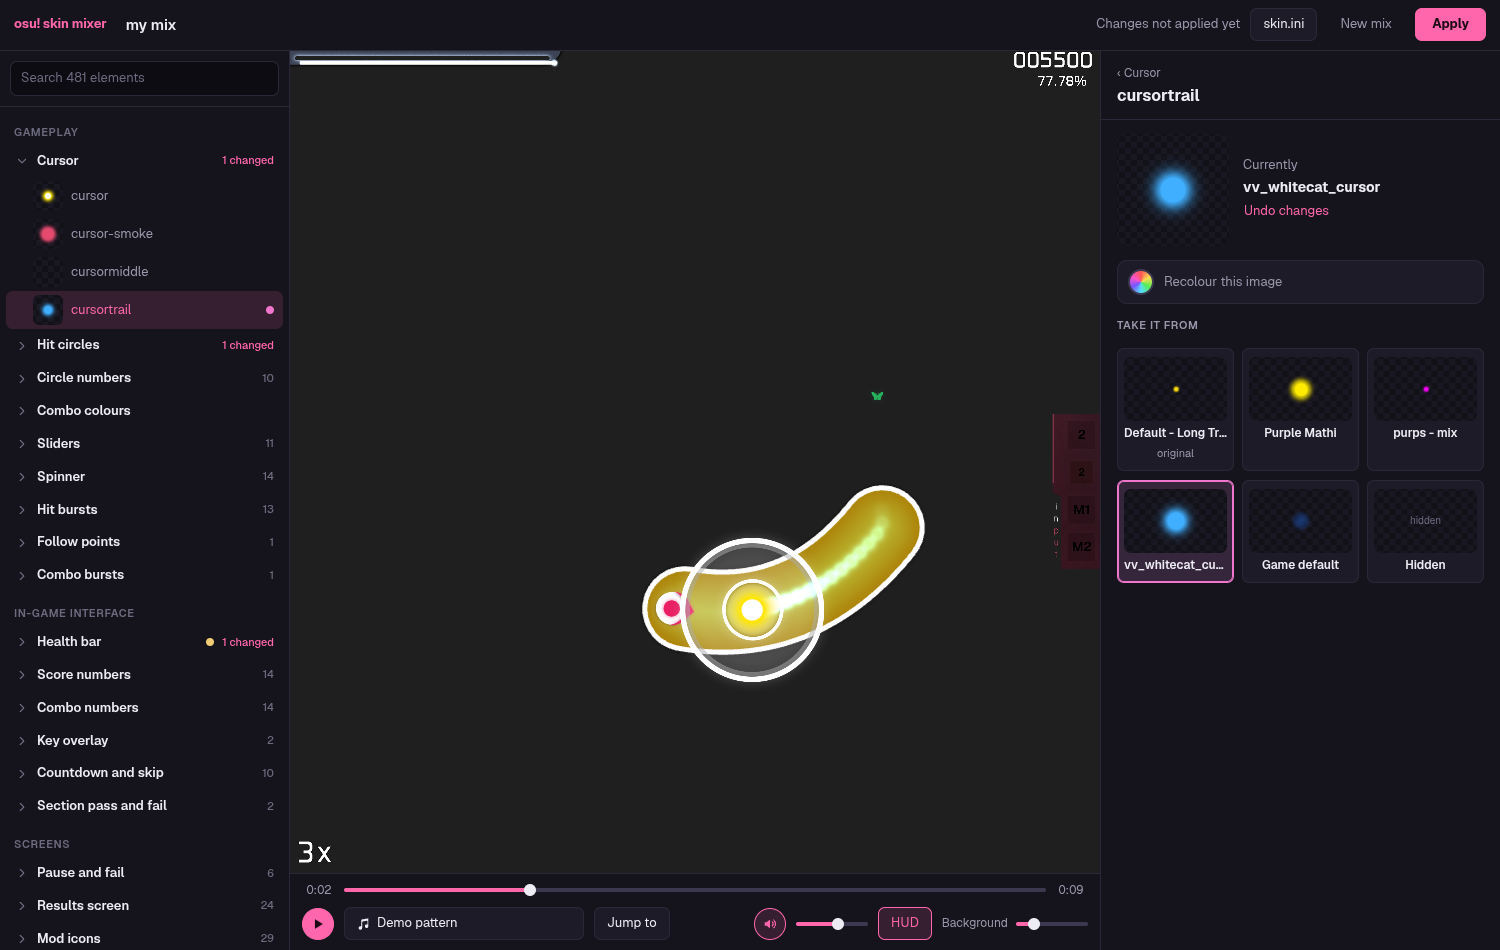
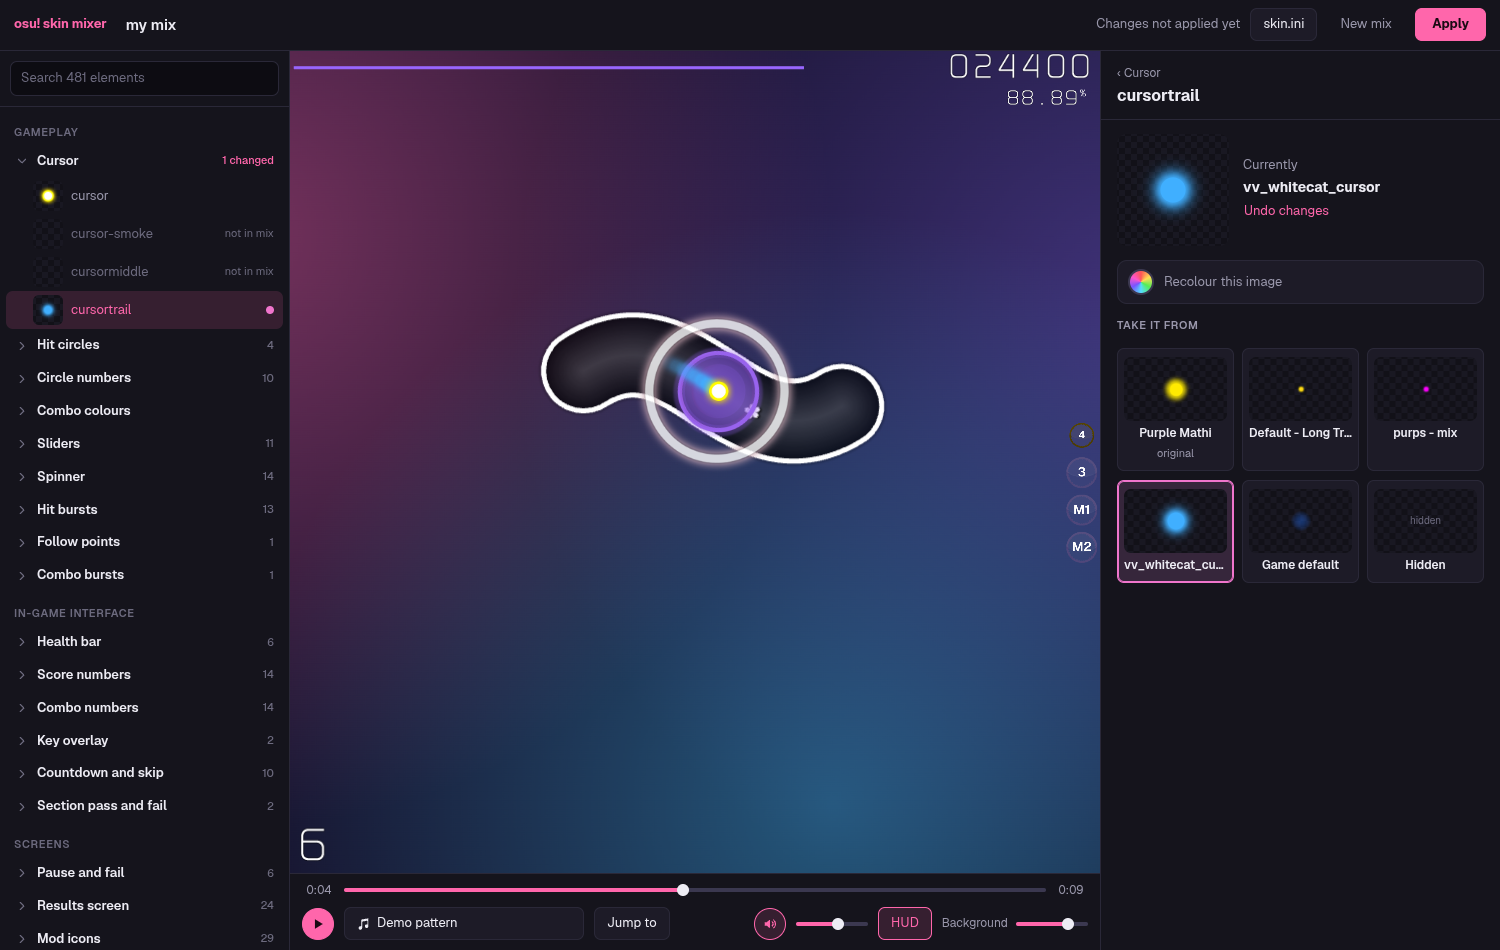
Give the demo pattern a backdrop, and refresh the README images
A scene without a background picture of its own now gets a soft wash
of colour instead of flat grey. The screenshot is retaken against it,
and the banner's tags are down to osu!std and osu!lazer.

diff --git a/web/src/preview/renderer.ts b/web/src/preview/renderer.ts
@@ -191,7 +191,6 @@ export class PreviewRenderer {
     this.ready = true;
     host.appendChild(this.app.canvas);
     this.background.anchor.set(0.5);
-    this.background.visible = false;
     this.app.stage.addChild(this.background);
     this.app.stage.addChild(this.stage);
 
@@ -257,7 +256,11 @@ export class PreviewRenderer {
     this.audio.syncMusic(this.settings.playing, this.time);
 
     const generation = ++this.backgroundGeneration;
-    this.background.visible = false;
+
+    // Without a picture of its own, a scene gets a backdrop drawn here, so skins are never judged against flat grey.
+    this.background.texture = this.backdrop();
+    this.background.visible = true;
+    this.applyBackdrop();
 
     if (media.backgroundUrl) {
       void Assets.load<Texture>({ src: media.backgroundUrl, parser: "texture" })
@@ -270,6 +273,43 @@ export class PreviewRenderer {
         })
         .catch(() => {});
     }
+  }
+
+  private fallbackBackdrop: Texture | null = null;
+
+  /** A soft, dark wash of colour, in the spirit of a beatmap background without being one. */
+  private backdrop(): Texture {
+    if (!this.fallbackBackdrop) {
+      const canvas = document.createElement("canvas");
+      canvas.width = 1280;
+      canvas.height = 720;
+
+      const context = canvas.getContext("2d")!;
+      const base = context.createLinearGradient(0, 0, canvas.width, canvas.height);
+      base.addColorStop(0, "#2a1746");
+      base.addColorStop(0.55, "#1a1838");
+      base.addColorStop(1, "#0f2238");
+      context.fillStyle = base;
+      context.fillRect(0, 0, canvas.width, canvas.height);
+
+      const glows: [x: number, y: number, radius: number, colour: string][] = [
+        [240, 160, 520, "255, 102, 171"],
+        [1040, 240, 560, "140, 102, 255"],
+        [760, 660, 520, "70, 190, 255"],
+      ];
+
+      for (const [x, y, radius, colour] of glows) {
+        const glow = context.createRadialGradient(x, y, 0, x, y, radius);
+        glow.addColorStop(0, `rgba(${colour}, 0.55)`);
+        glow.addColorStop(1, `rgba(${colour}, 0)`);
+        context.fillStyle = glow;
+        context.fillRect(0, 0, canvas.width, canvas.height);
+      }
+
+      this.fallbackBackdrop = Texture.from(canvas);
+    }
+
+    return this.fallbackBackdrop;
   }
 
   private applyBackdrop() {
